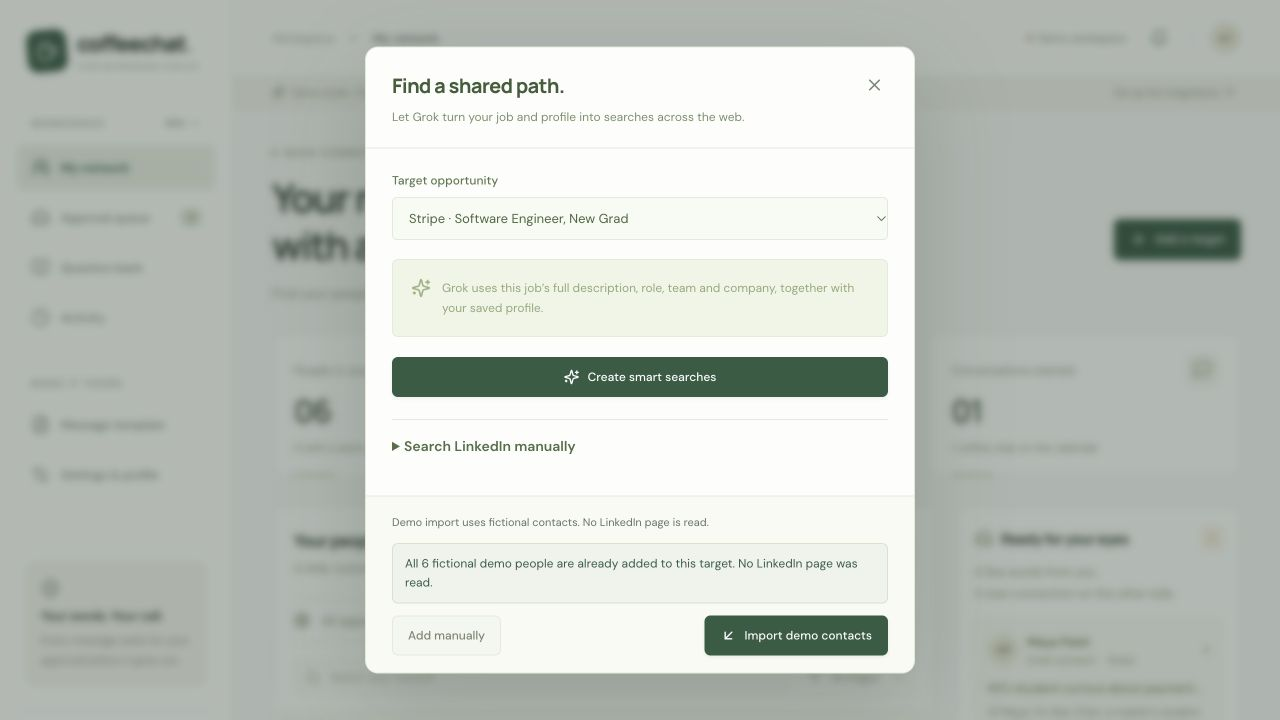
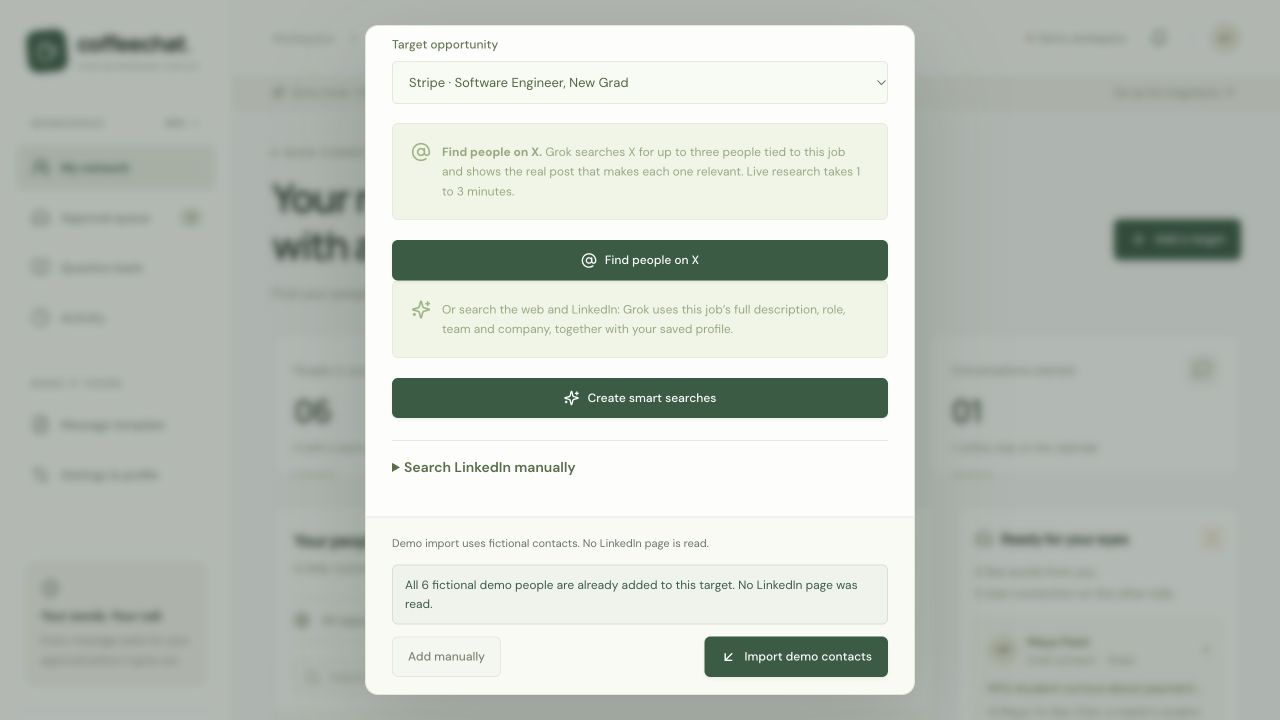
Preserve local setup after teammate backend integration

diff --git a/extension/src/sidepanel/App.tsx b/extension/src/sidepanel/App.tsx
@@ -1245,6 +1245,7 @@ function PeopleSearchDialog({
   );
   const [plan, setPlan] = useState<PeopleSearchPlan | null>(null);
   const [planning, setPlanning] = useState(false);
+  const [researching, setResearching] = useState(false);
   const [importing, setImporting] = useState(false);
   const [importAttempted, setImportAttempted] = useState(false);
   const [importFeedback, setImportFeedback] = useState("");
@@ -1324,12 +1325,17 @@ function PeopleSearchDialog({
           disabled={busy || !target}
           onClick={async () => {
             if (!target) return;
-            const result = await run({ type: "FIND_ON_X", targetId: target.id });
-            if (result) onClose();
+            setResearching(true);
+            try {
+              const result = await run({ type: "FIND_ON_X", targetId: target.id });
+              if (result) onClose();
+            } finally {
+              setResearching(false);
+            }
           }}
         >
-          {busy ? <LoaderCircle size={16} className="spin" /> : <AtSign size={16} />}
-          {busy ? "Researching on X…" : "Find people on X"}
+          {researching ? <LoaderCircle size={16} className="spin" /> : <AtSign size={16} />}
+          {researching ? "Researching on X…" : "Find people on X"}
         </button>
         <div className="callout search-context">
           <Sparkles size={20} />

diff --git a/backend/src/main.ts b/backend/src/main.ts
@@ -1,11 +1,10 @@
 import { serve } from '@hono/node-server';
+import { config as loadEnv } from 'dotenv';
+import { fileURLToPath } from 'node:url';
 
 // One .env for the whole repo, at the root. Variables already set in the shell win.
-try {
-  process.loadEnvFile(new URL('../../.env', import.meta.url));
-} catch {
-  // No root .env: fall back to the shell environment.
-}
+// dotenv also supports Node 20.11, which does not provide process.loadEnvFile.
+loadEnv({ path: fileURLToPath(new URL('../../.env', import.meta.url)), override: false });
 import { loadConfig } from './config';
 import { FixtureResearchProvider } from './provider/fixture';
 import type { ModelStatus } from './provider/types';
@@ -24,7 +23,7 @@ void provider.checkModel().then((status) => {
 
 const app = createApp({ ...createDeps(cfg, provider), modelStatus: () => modelStatus });
 
-serve({ fetch: app.fetch, port: cfg.PORT }, ({ port }) => {
+serve({ fetch: app.fetch, port: cfg.PORT, hostname: '127.0.0.1' }, ({ port }) => {
   console.log(JSON.stringify({ event: 'listening', port, mode: provider.mode }));
   if (provider.mode === 'fixture') console.log('FIXTURE MODE: responses are demo data labeled mode: "fixture".');
 });

diff --git a/README.md b/README.md
@@ -4,7 +4,7 @@ A Chrome side panel that helps you turn a job opportunity into a thoughtful coff
 
 ## Teammates: test the `julia` branch
 
-This branch contains a self-contained Coffee Chat MVP: a React interface, Chrome extension, and local Grok backend. Run all commands below from the **repository root**. Newer work on other branches has not been integrated into this MVP.
+This branch combines the Coffee Chat interface and Chrome extension with the team's Grok/X research backend. Run all commands below from the **repository root**; the backend is an npm workspace.
 
 Requires **Node.js 20+**, npm, and **Google Chrome 116+** for extension features.
 
@@ -28,11 +28,11 @@ If you already have the repository, save your current changes, run `git fetch or
 
 ### Enable live AI and the extension
 
-1. On a fresh clone, copy `.env.example` to `.env`. Set your own `XAI_API_KEY`; keep the supplied model defaults unless your API account requires another supported model. Each developer runs their own backend. Share team credentials only through your team's approved secret-sharing channel, never through Git.
+1. On a fresh clone, copy `.env.example` to `.env`. Set your own `XAI_API_KEY` and a local `BACKEND_TOKEN` of at least 16 characters; the backend and extension build must use the same token. Keep the supplied model defaults unless your API account requires another supported model. Each developer runs their own backend. Share team credentials only through your team's approved secret-sharing channel, never through Git.
 2. In one terminal, run `npm run server` and leave it running. In the app, use backend URL `http://127.0.0.1:8787`. **Settings → Test connection** checks reachability and key presence; a successful live AI task checks actual provider access.
 3. Run `npm run build`. In Chrome, open `chrome://extensions`, enable **Developer mode**, click **Load unpacked**, and choose this clone's **`dist`** folder.
 4. Click Chrome's puzzle-piece menu, pin **Coffee Chat Copilot**, and click its icon to open the side panel. In **Settings**, turn **Demo mode off** and save your own name, school, major, background, availability, and signature. Also review your message template.
-5. For Gmail/Calendar, follow **[backend/SETUP.md](backend/SETUP.md)**. Each developer needs an OAuth client matching their extension ID, or a deliberately coordinated stable public extension key/client. The Google Cloud project owner must add each connecting Google account as a test user. Julia's local OAuth connection and API key are not included in this repository.
+5. For Gmail/Calendar, follow **[docs/SETUP.md](docs/SETUP.md)**. Each developer needs an OAuth client matching their extension ID, or a deliberately coordinated stable public extension key/client. The Google Cloud project owner must add each connecting Google account as a test user. Julia's local OAuth connection and API key are not included in this repository.
 6. Add a target job with its full description. Choose **Find people → Create smart searches**. Grok combines the job, team, company, and saved profile into editable Google/Bing queries. Review the resulting profiles. Add people found on the web manually, or use **Import LinkedIn results** on an open LinkedIn people-results tab.
 
 App records are stored locally in each browser/extension installation. The browser preview and extension also have separate storage. Teammates can test the same code independently; contacts, drafts, Google connections, and approvals do **not** sync across computers. There is no shared database or hosted backend in this branch.
@@ -57,7 +57,7 @@ While reading, the button says **Importing…**. Errors and duplicate-only resul
 
 ### Before reporting a live test as successful
 
-Run `npm test` and `npm run build`. Live job parsing and search planning have been exercised with Grok; the automated suite uses mocks for Gmail/Calendar and never sends real outreach. For an end-to-end test, use a separate inbox you control, confirm its address in the contact form, generate/review/approve/send one message, reply from that inbox, and check reply detection. Create a test Calendar event only when you intend to send its attendee invitation. See the detailed verification steps in [backend/SETUP.md](backend/SETUP.md#4-verify-real-actions-in-order).
+Run `npm test` and `npm run build`. Live job parsing and search planning have been exercised with Grok; the automated suite uses mocks for Gmail/Calendar and never sends real outreach. For an end-to-end test, use a separate inbox you control, confirm its address in the contact form, generate/review/approve/send one message, reply from that inbox, and check reply detection. Create a test Calendar event only when you intend to send its attendee invitation. See the detailed verification steps in [docs/SETUP.md](docs/SETUP.md#4-verify-real-actions-in-order).
 
 ## Run the demo
 
@@ -96,7 +96,7 @@ The output includes a Manifest V3 service worker, side panel, bundled fonts, and
 
 ## Connect live AI, Gmail, and Calendar
 
-Follow **[backend/SETUP.md](backend/SETUP.md)** for the complete setup, test-account checks, and troubleshooting.
+Follow **[docs/SETUP.md](docs/SETUP.md)** for the complete setup, test-account checks, and troubleshooting.
 
 - Copy `.env.example` to `.env` and configure `XAI_API_KEY` locally using an API key from [xAI Console](https://console.x.ai/team/default/api-keys). The backend alone reads this secret; it never enters the extension bundle.
 - Run `npm run server` in another terminal. Check **http://127.0.0.1:8787/health** or **Settings → Test connection**.

diff --git a/docs/SETUP.md b/docs/SETUP.md
@@ -12,6 +12,8 @@ Profiles, targets, contacts, drafts, questions, and activity are saved locally i
 
 ## 1. Configure Grok (xAI) locally
 
+The integrated backend also requires `BACKEND_TOKEN` (a random local secret of at least 16 characters). Set it in root `.env` before starting the server or building the extension; both use the same value. Set `ALLOWED_ORIGINS` to your actual `chrome-extension://<extension-id>` and `http://127.0.0.1:5173`, separated by a comma, for X research. These settings do not change the LinkedIn page reader.
+
 1. Open [xAI Console → API Keys](https://console.x.ai/team/default/api-keys) and create an API key for this project under the intended team. Ensure that team has API credits/billing and access to `grok-4.7`. Use an inference API key; this app does not need a Management API key. See the [official xAI quickstart](https://docs.x.ai/developers/quickstart) for account and key setup.
 2. In the repository root, copy `.env.example` to `.env` if `.env` does not already exist. Open `.env` in your editor and put the key after `XAI_API_KEY=`. Do not paste it into chat, put it in a `VITE_` variable, or add it to the extension settings. `.env` is ignored by Git.
 3. After `npm ci`, run `npm run server`. Keep that terminal running. It listens only at `http://127.0.0.1:8787` on your computer; every teammate starts their own server.
@@ -41,6 +43,8 @@ Gmail read access is a restricted scope. Public distribution has additional Goog
 6. Live mode opens an independent workspace and intentionally clears the seeded demo identity. In **Settings**, enter and **save your own personal profile**, including your name, before creating or sending outreach; a blank name blocks sending. Then add real contacts for controlled tests. Keep your Google account, OAuth client, and enabled APIs in the same intended configuration. Fictional contacts stay in the demo workspace and are blocked from live sends.
 
 The client ID is public and compiled into `dist/manifest.json`. No Google secret or Google access token is placed in `.env`. Tokens stay in Chrome Identity's cache and are used directly against Google APIs.
+
+New team builds use a pinned public extension key by default. If you already connected Google using an earlier build with **no** manifest key, set `PRESERVE_UNPACKED_ID=true` in your local `.env` before rebuilding and keep the same `dist` path. This keeps that installation's existing extension ID and local records. Leave it false for a new team installation. Always match the OAuth client to the ID Chrome actually displays.
 
 As an alternative to separate clients, the team can agree on one **public** extension key and put that same value in each developer's local `EXTENSION_PUBLIC_KEY=`. Rebuild and reload each extension, verify that the displayed IDs match, then register that resulting ID in one Chrome Extension OAuth client. Developers can use that client's public `GOOGLE_CLIENT_ID` while each authorizes their own Google account; the project administrator still needs to allow every account as a test user. Chrome's [official OAuth guide](https://developer.chrome.com/docs/extensions/how-to/integrate/oauth) explains obtaining and using the public `key`. Never share a private signing key or use one in the manifest. If you change the public key or extension ID, create/update the Google Chrome Extension client to match and rebuild.
 
